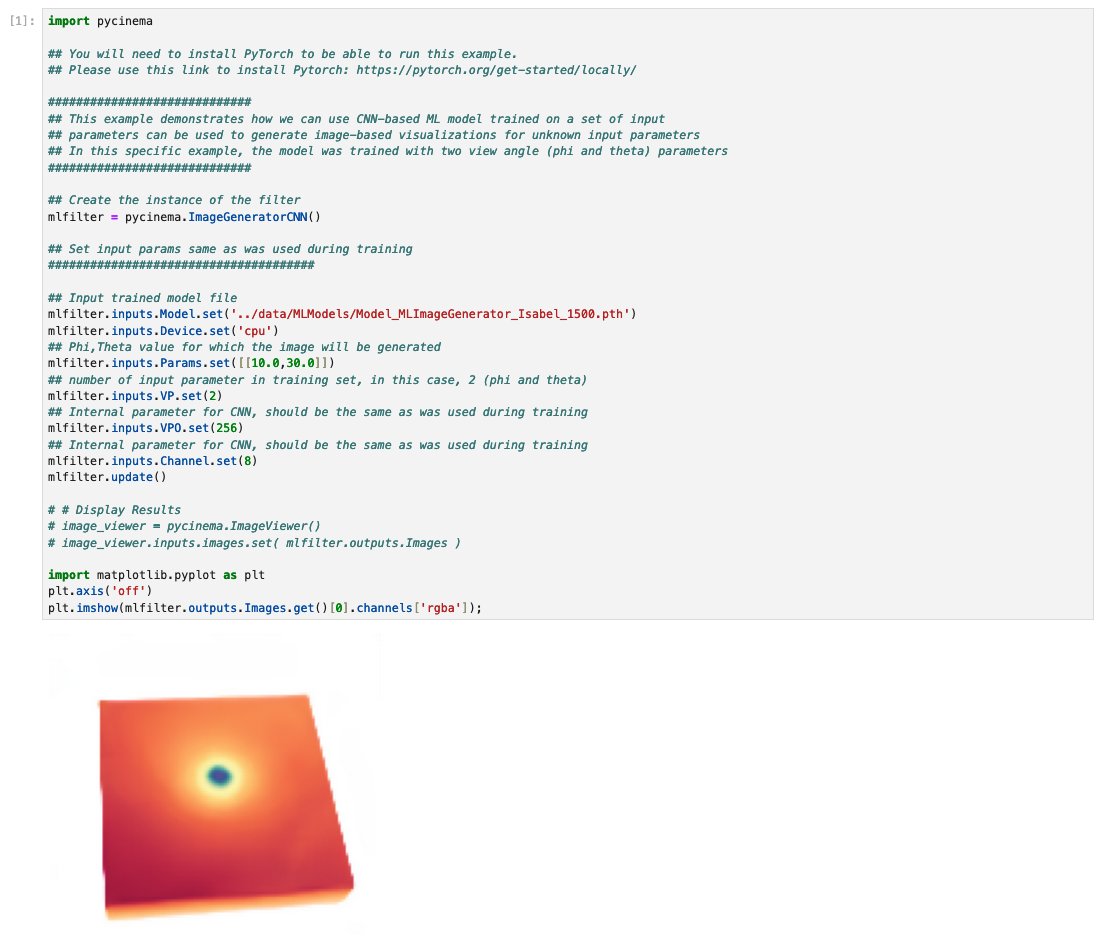
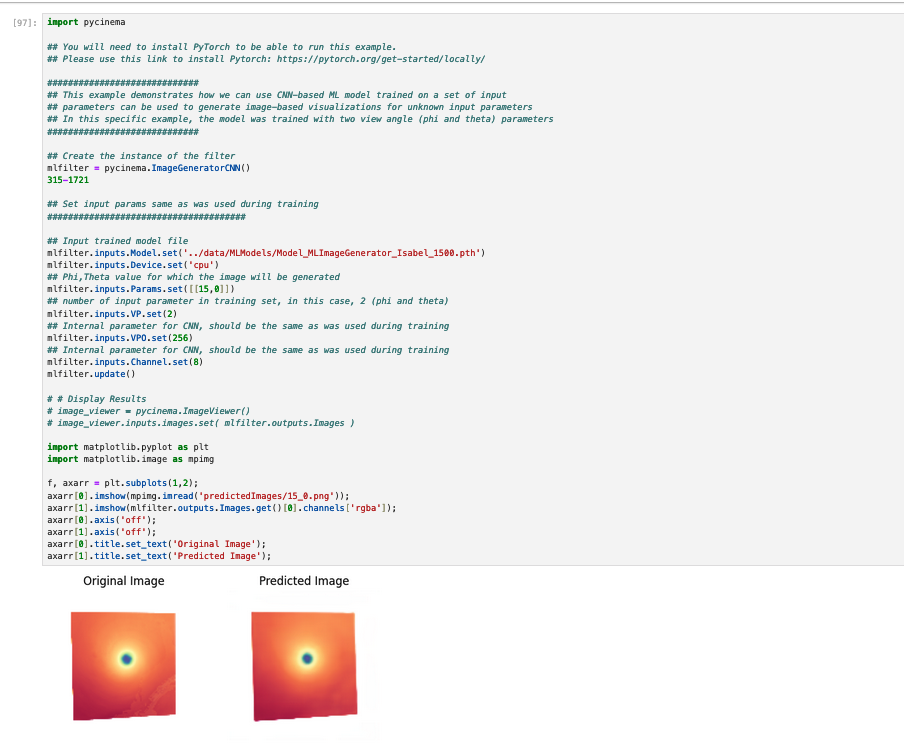
comparison documentation update

Changed region(s): [[0.0, 0.0, 0.6504, 0.9879]]

diff --git a/examples/README.md b/examples/README.md
@@ -4,7 +4,7 @@ Over the past three to four years, view synthesis, the generation of new, unseen
 
 ## Generating new images from a trained network
 
-Currently, the `pycinema` module supports new view generation for networks built on the InSituNet framework. Given a `phi`, `theta` and possible `time` values for the new image, and a path to the trained network, the `ImageGeneratorCNN` module generates the new image.
+Currently, the `pycinema` module supports new view generation for networks built on the InSituNet framework. Given `phi`, `theta` and optional `time` values for the new image, and a path to the trained network, the `ImageGeneratorCNN` module generates the new image at the specified view direction and time.
 
 
 To generate an instance of the module, run:
@@ -24,14 +24,13 @@ mlfilter.inputs.Params.set([[phi, theta]])
 
 For example, we train a neural network based on the Hurricane Isabel dataset. This trained network is saved in `../data/MLModels/Model_MLImageGenerator_Isabel_1500.pth` for reference. 
 
-We then generate a new image at `phi=10.0` and `theta=30.0`, as shown in `demoMLImageGenerator.ipynb`:
+We then generate a new image at `phi=15.0` and `theta=0.0`, as shown in `demoMLImageGenerator.ipynb`:
 
 ![JupyterLab Interface](predictedImages/demoMLImageGenerator.png)
 
+We can compare the Predicted Image to the Original Reference Image for comparison. 
 
-This results in the image below:
-
-![Predicted Image](predictedImages/demoMLImageGenerator_10_30.png)
+![Predicted Image](predictedImages/comparison_15_0.png)
 
 ## References
 
